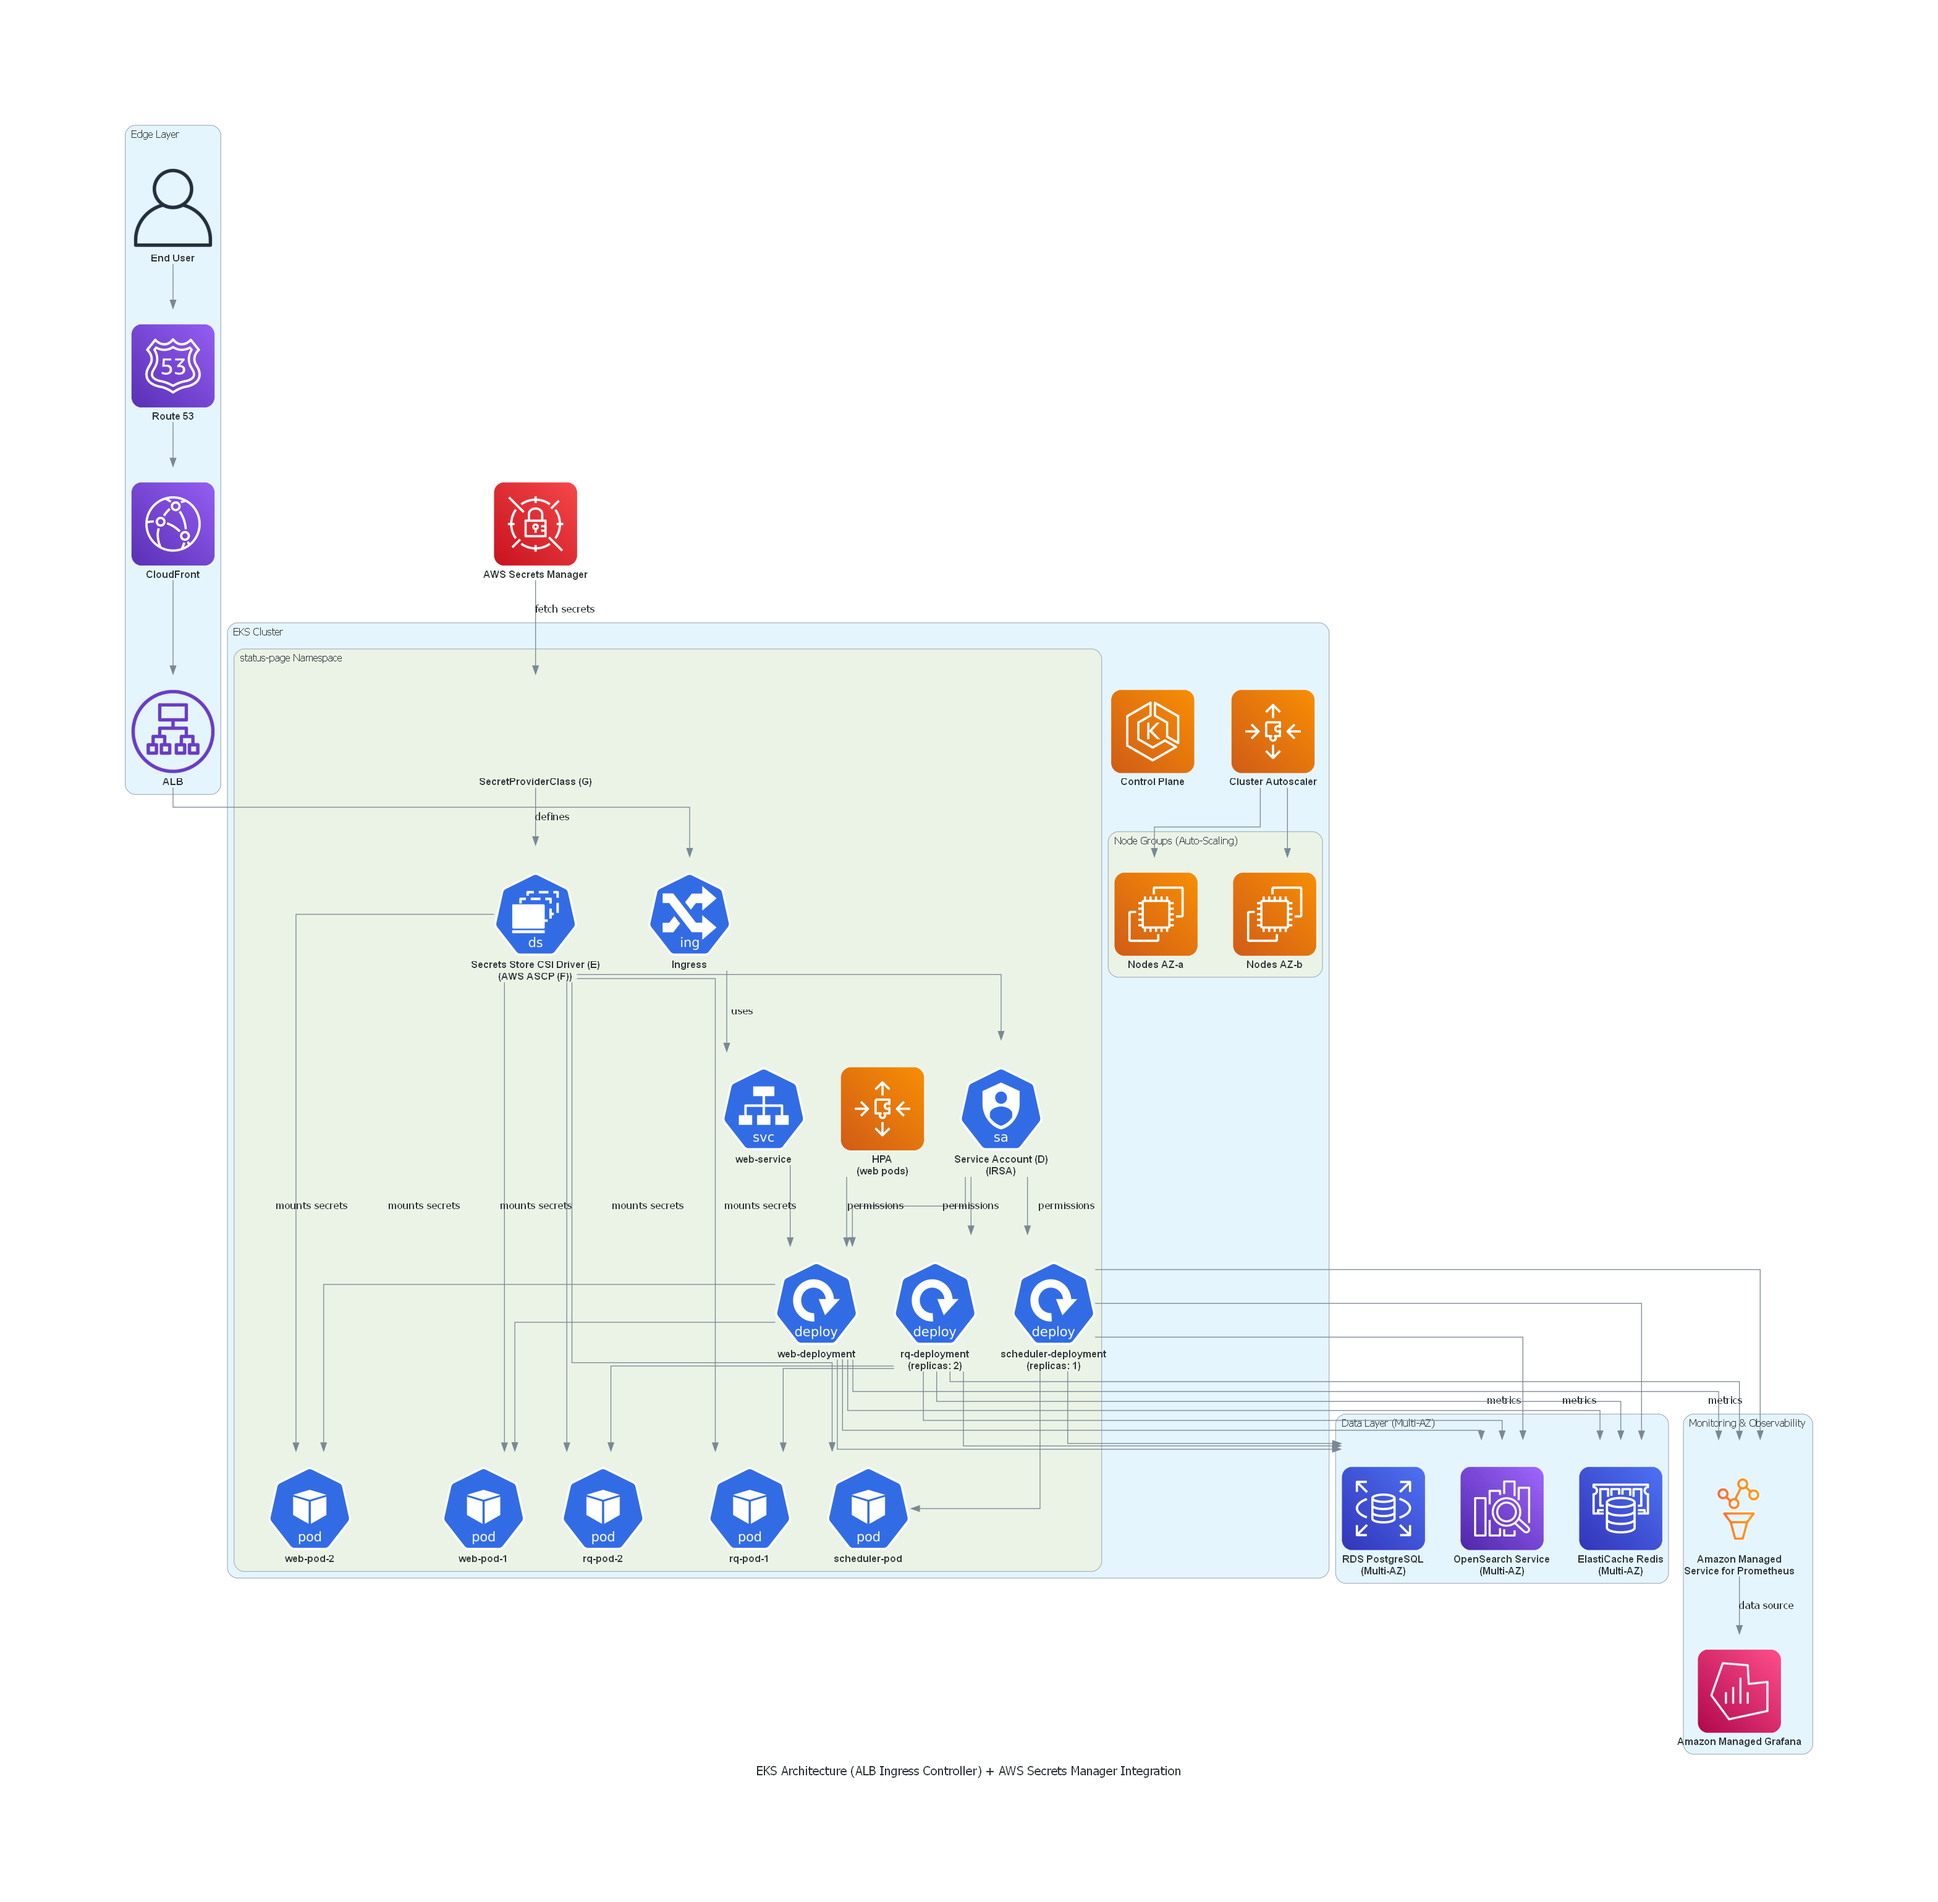
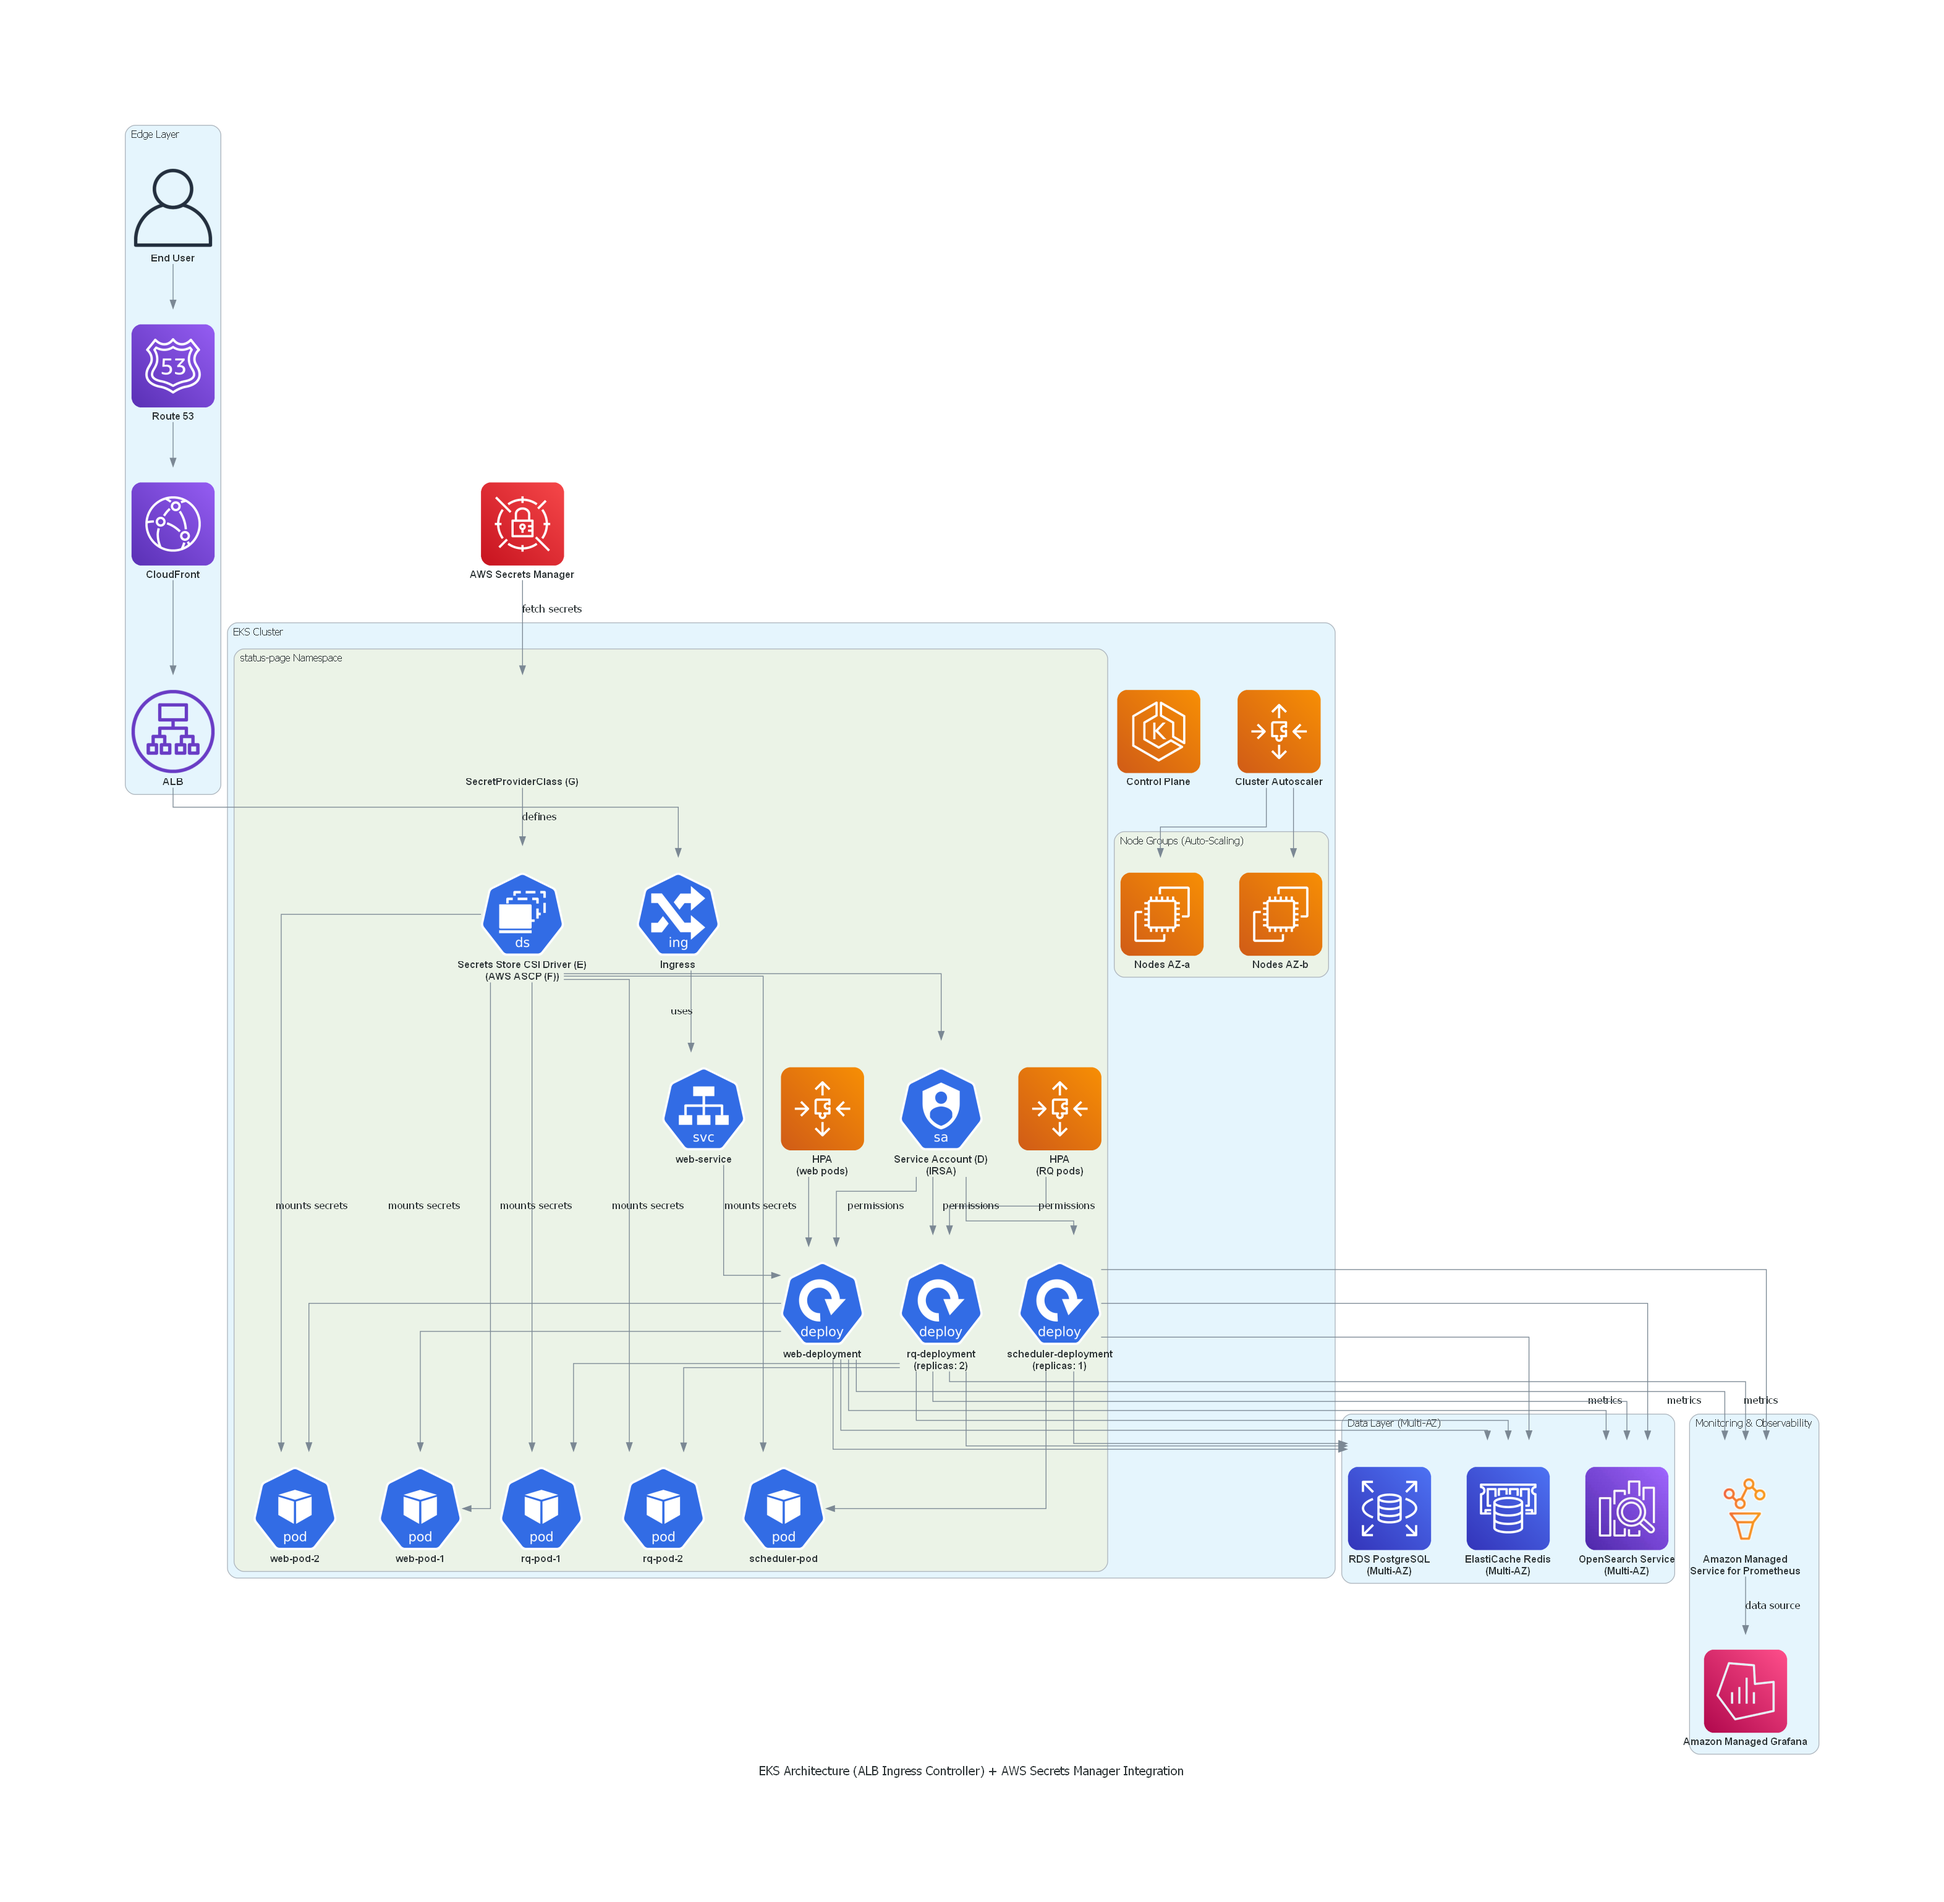
update config

diff --git a/arch/eks_alb_ingress_with_secrets/main.py b/arch/eks_alb_ingress_with_secrets/main.py
@@ -76,6 +76,9 @@ with Diagram(
             # HPA for web pods
             hpa_web = ApplicationAutoScaling("HPA\n(web pods)")
 
+            # HPA for RQ pods
+            hpa_rq = ApplicationAutoScaling("HPA\n(RQ pods)")
+
             # Pods
             web_pods = [Pod("web-pod-1"), Pod("web-pod-2")]
             rq_pods = [Pod("rq-pod-1"), Pod("rq-pod-2")]
@@ -107,6 +110,9 @@ with Diagram(
 
     # HPA monitoring web pods
     hpa_web >> deploy_web
+
+    # HPA monitoring RQ pods
+    hpa_rq >> deploy_rq
 
     # Cluster Autoscaler monitoring nodes
     cluster_autoscaler >> ng_a
